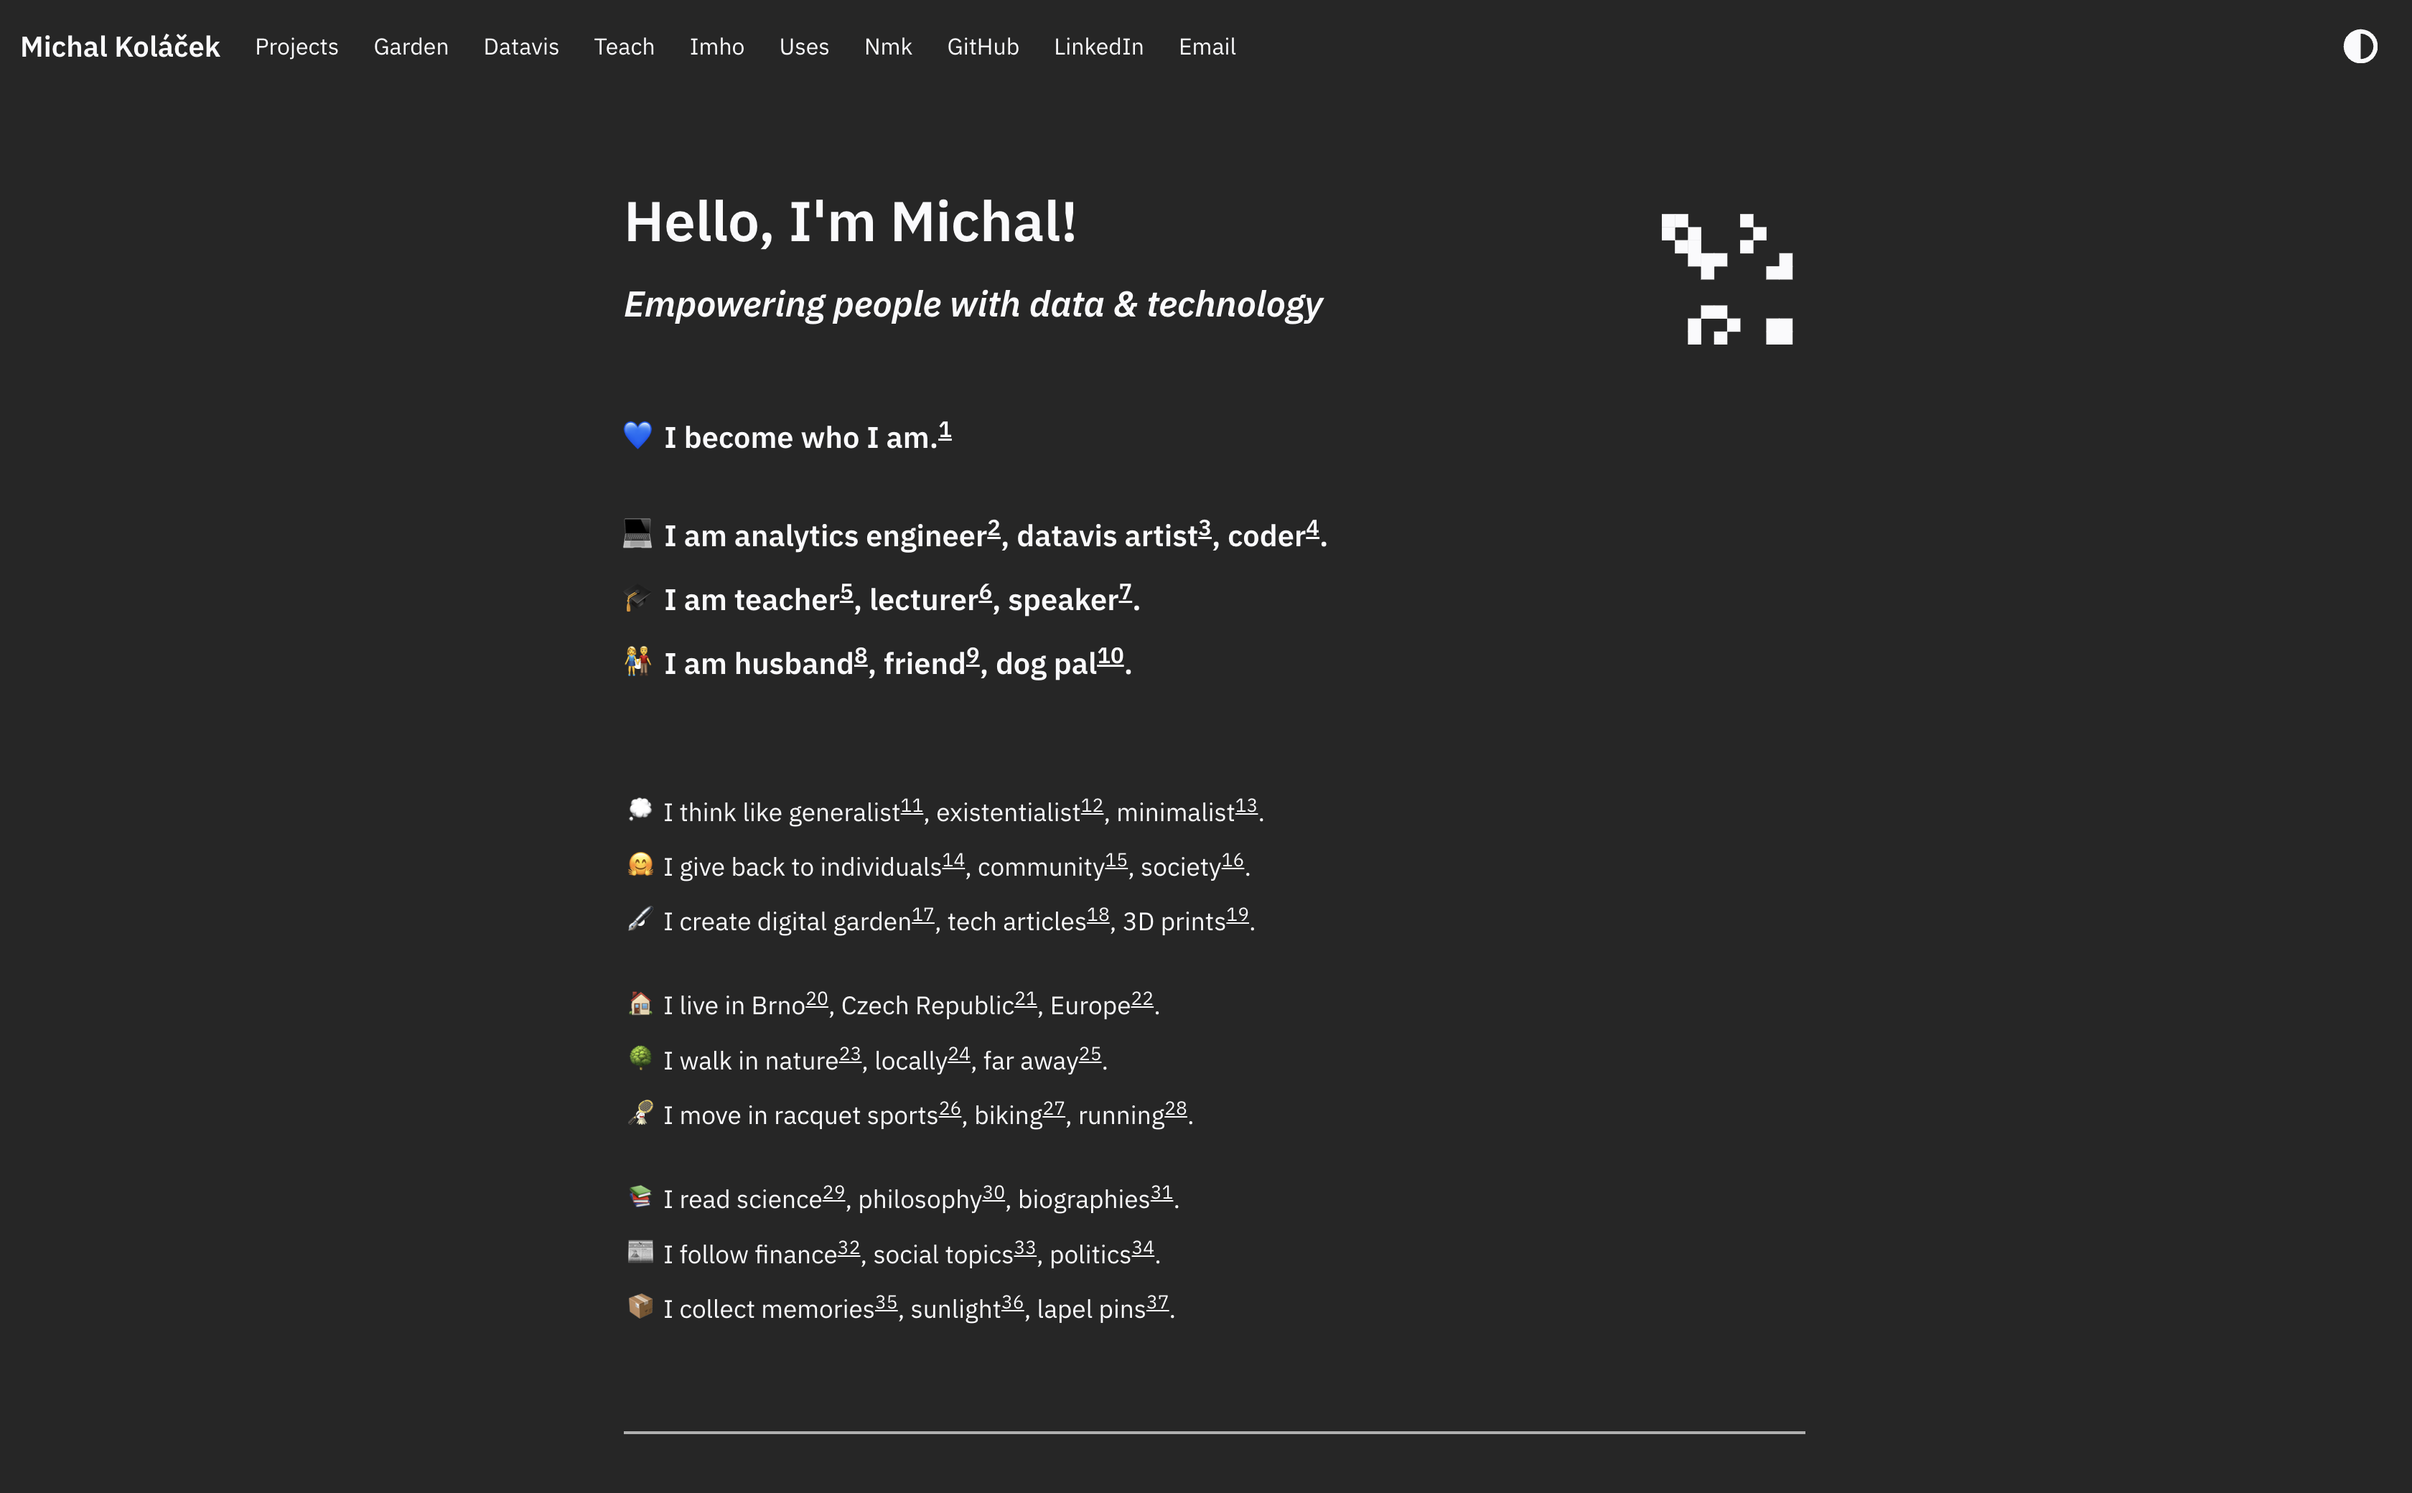
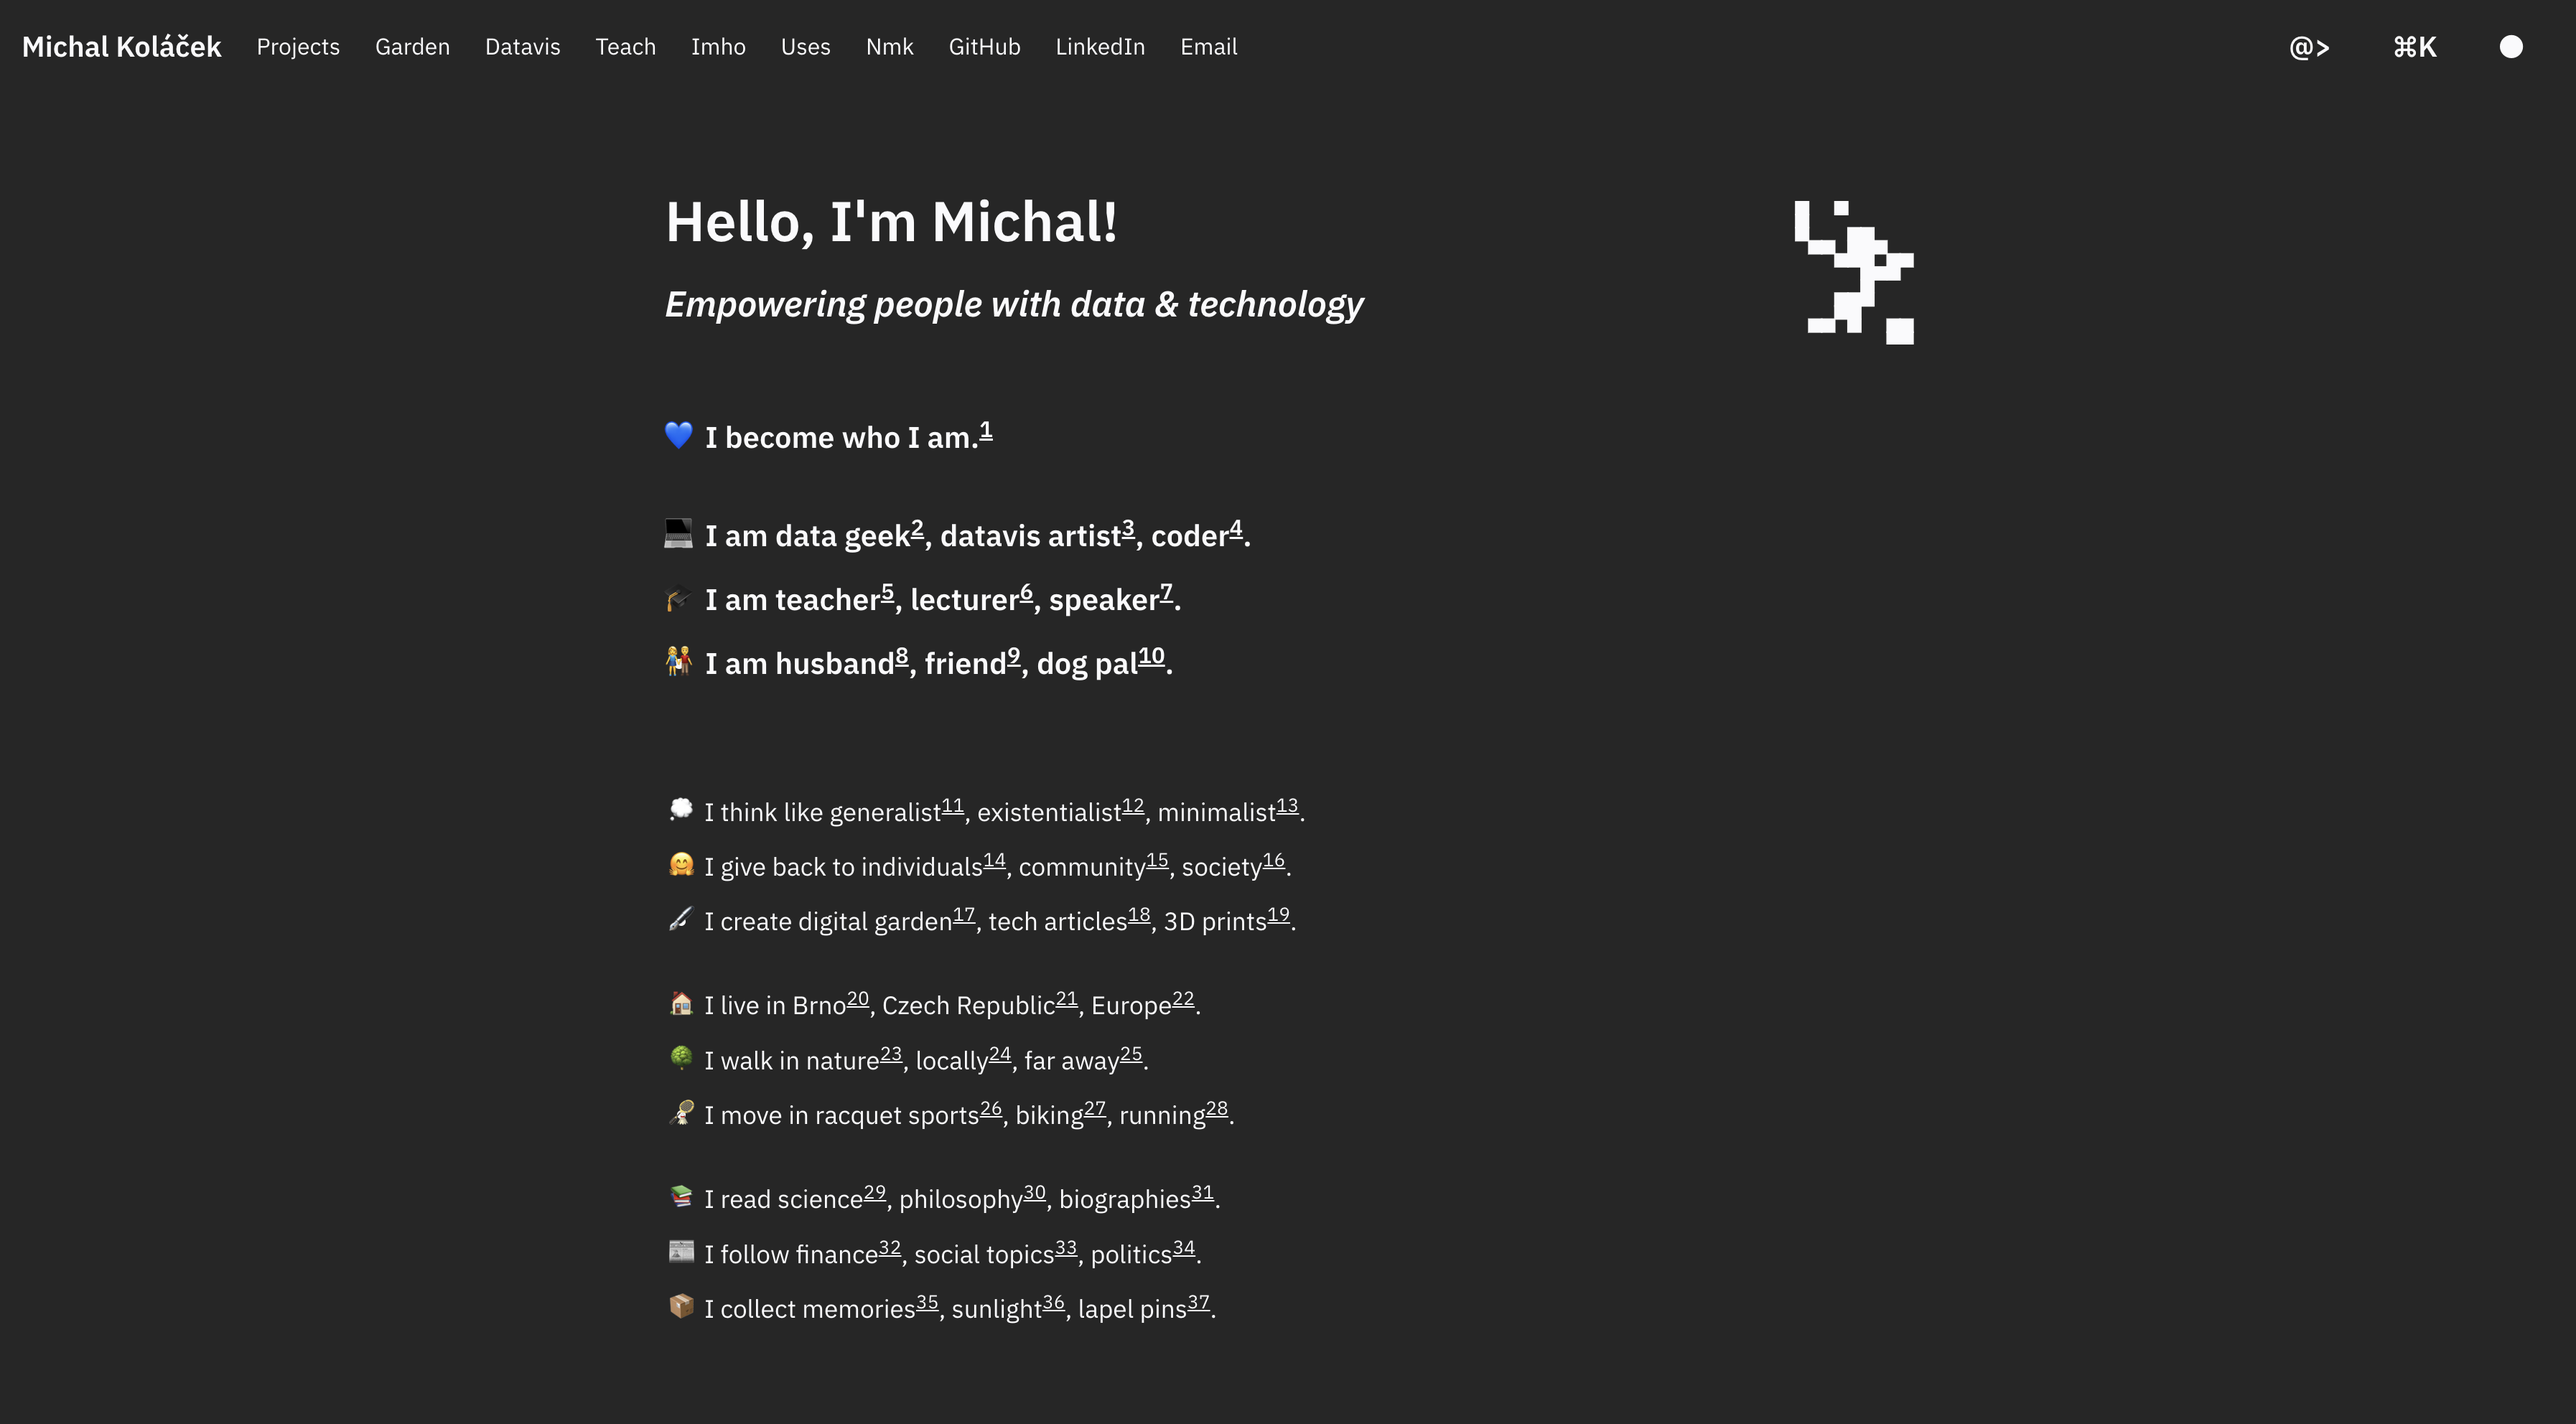
Update README

diff --git a/README.md b/README.md
@@ -3,4 +3,7 @@ My personal site, featuring stuff about myself, esp. [projects](https://michalko
 – powered by [Obsidian](https://obsidian.md/) & enhanced by a few shell and Python 
 [automations scripts](/utilities) of mine.
 
+Oh, and it now also includes [hashart](https://michalkolacek.xyz/hashart), command palette (`cmd+k`),
+and [ChatMK](https://michalkolacek.xyz//chatmk).
+
 ![](/assets/img/screenshot.png)
